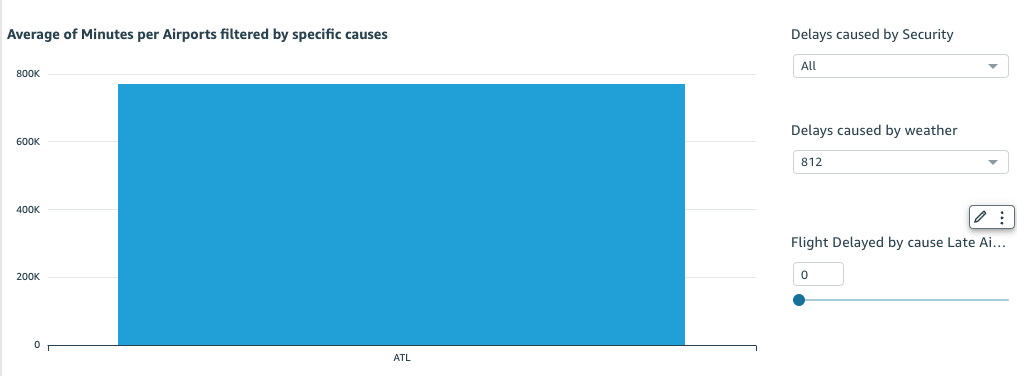
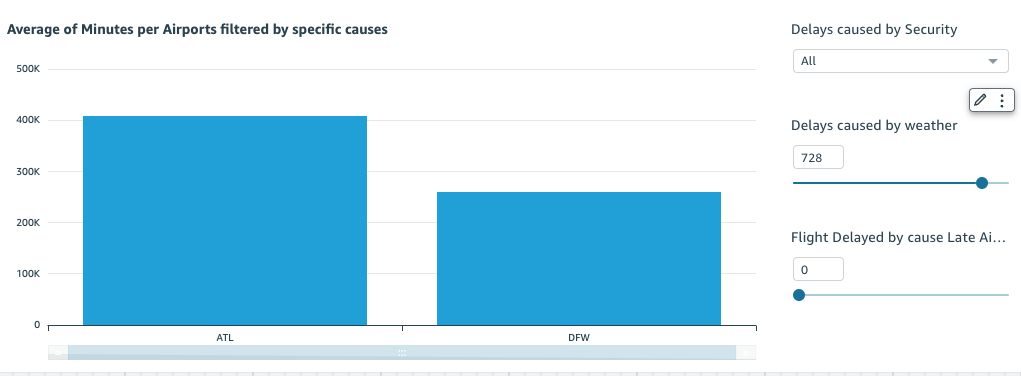
new updates

diff --git a/README.md b/README.md
@@ -24,20 +24,33 @@ aircraft, weather, or security. Use a filter to be able to change the delay caus
 
 ##### 3.1 DAGSTER PIPELINE
 <p> I started installing Dagster locally and writing my pipeline to send data to S3. I used 3 assets and 1 job.</p>
+
 <b>1. I created the method: </b> 
-``` get_json_data() ``` 
+
+```get_json_data()``` 
+
  - <p>To get the json through requests python package</p>
+
 <b>2. I created the method: </b> 
-``` convert_airline_json_to_csv() ``` 
+
+```convert_airline_json_to_csv()``` 
+
  - <p>To convert the json file to a csv file creating a dataframe and then converting to csv file, using Pandas library.</p>
+
 <b>3. I created the method: </b> 
-``` upload_json_to_s3_pipeline() ``` 
+
+```upload_json_to_s3_pipeline()``` 
+
  - <p>To receive the csv data and call send_airline_data_to_s3 method</p>
+
 <b>4. I created the method: </b> 
-``` send_airline_data_to_s3()``` 
+
+```send_airline_data_to_s3()``` 
+
  - <p>To send the csv file to S3 using boto3 AWS SDK for python, first configuring the client with the os package to protect the cloud credentials mantaining on virtual environment and then putting the object, before that I needed to create a bucket in S3 and provide the name</p>
 <b>5. Then I started the Dagster interface using dagit </b>
-``` dagit -f load_airline.py ``` 
+```dagit -f load_airline.py``` 
+
 <b>6. I went to my browser and navigated to http://localhost:3000/</b>
 <b>7. In the Dagster Interface I went to Launchpad and clicked on Launch Run</b>
     <b> 7.1 The Pipeline: </b>
@@ -71,14 +84,14 @@ aircraft, weather, or security. Use a filter to be able to change the delay caus
 Answering the questions:
 
 <b> Q1: Which Airports have the highest number of canceled flights? </b>
-<b> A1: The top 3 are: 
+<b> A1: The top 3 were: 
   - <b> 1. Chicago O'Hare International/Chicago with almost 150k canceled flights;
   - <b> 2. Hartfield Jackson Atlanta International/Atlanta with a bit more than 85k and; </b>
   - <b> 3. Fort Worth International/Dallas - TX with a little bit more than 80k </b>
 <hr>
 
 <b> Q2: Which Airports have the highest average delay? </b>
-<b> A2: The top 3 are the same above: 
+<b> A2: The top 3 were the same above: 
   - <b> 1. Chicago O'Hare International/Chicago with the total of 435k minutes of delays from 2003 to 2016 ;
   - <b> 2. Hartfield Jackson Atlanta International/Atlanta with the total of 406k minutes of delays seeing 13 years of data; </b>
   - <b> 3. Fort Worth International/Dallas - TX with the total of 258k minutes of delays between 2003 to 2016</b>
@@ -97,7 +110,8 @@ aircraft, weather, or security. Use a filter to be able to change the delay caus
   - <b> Security. Fort Worth International/Dallas with 94 delays because of Security;
  
  ![Delay Weather](img/delay-weather.png)
-  - <b> Weather. Hartfield Jackson Atlanta International/Atlanta with 812 delays because of Weather </b>
+
+  - <b> Weather. Hartfield Jackson Atlanta International/Atlanta with 812 delays because of Weather; Dallas with 729 </b>
 
  ![Delay Late Aircraft](img/delay-late-aircraft.png)
   - <b>Late Aircraft. Hartfield Jackson Atlanta International/Atlanta and Chicago O'Hare International/Chicago with more than 3,5k delays because of Late Aicraft</b>
@@ -122,6 +136,7 @@ aircraft, weather, or security. Use a filter to be able to change the delay caus
 ### 5. TECH STACK 
 Python
 Dagster Orchestrator 
+Dbeaver
 AWS 
     - S3
     - Glue Crawler
